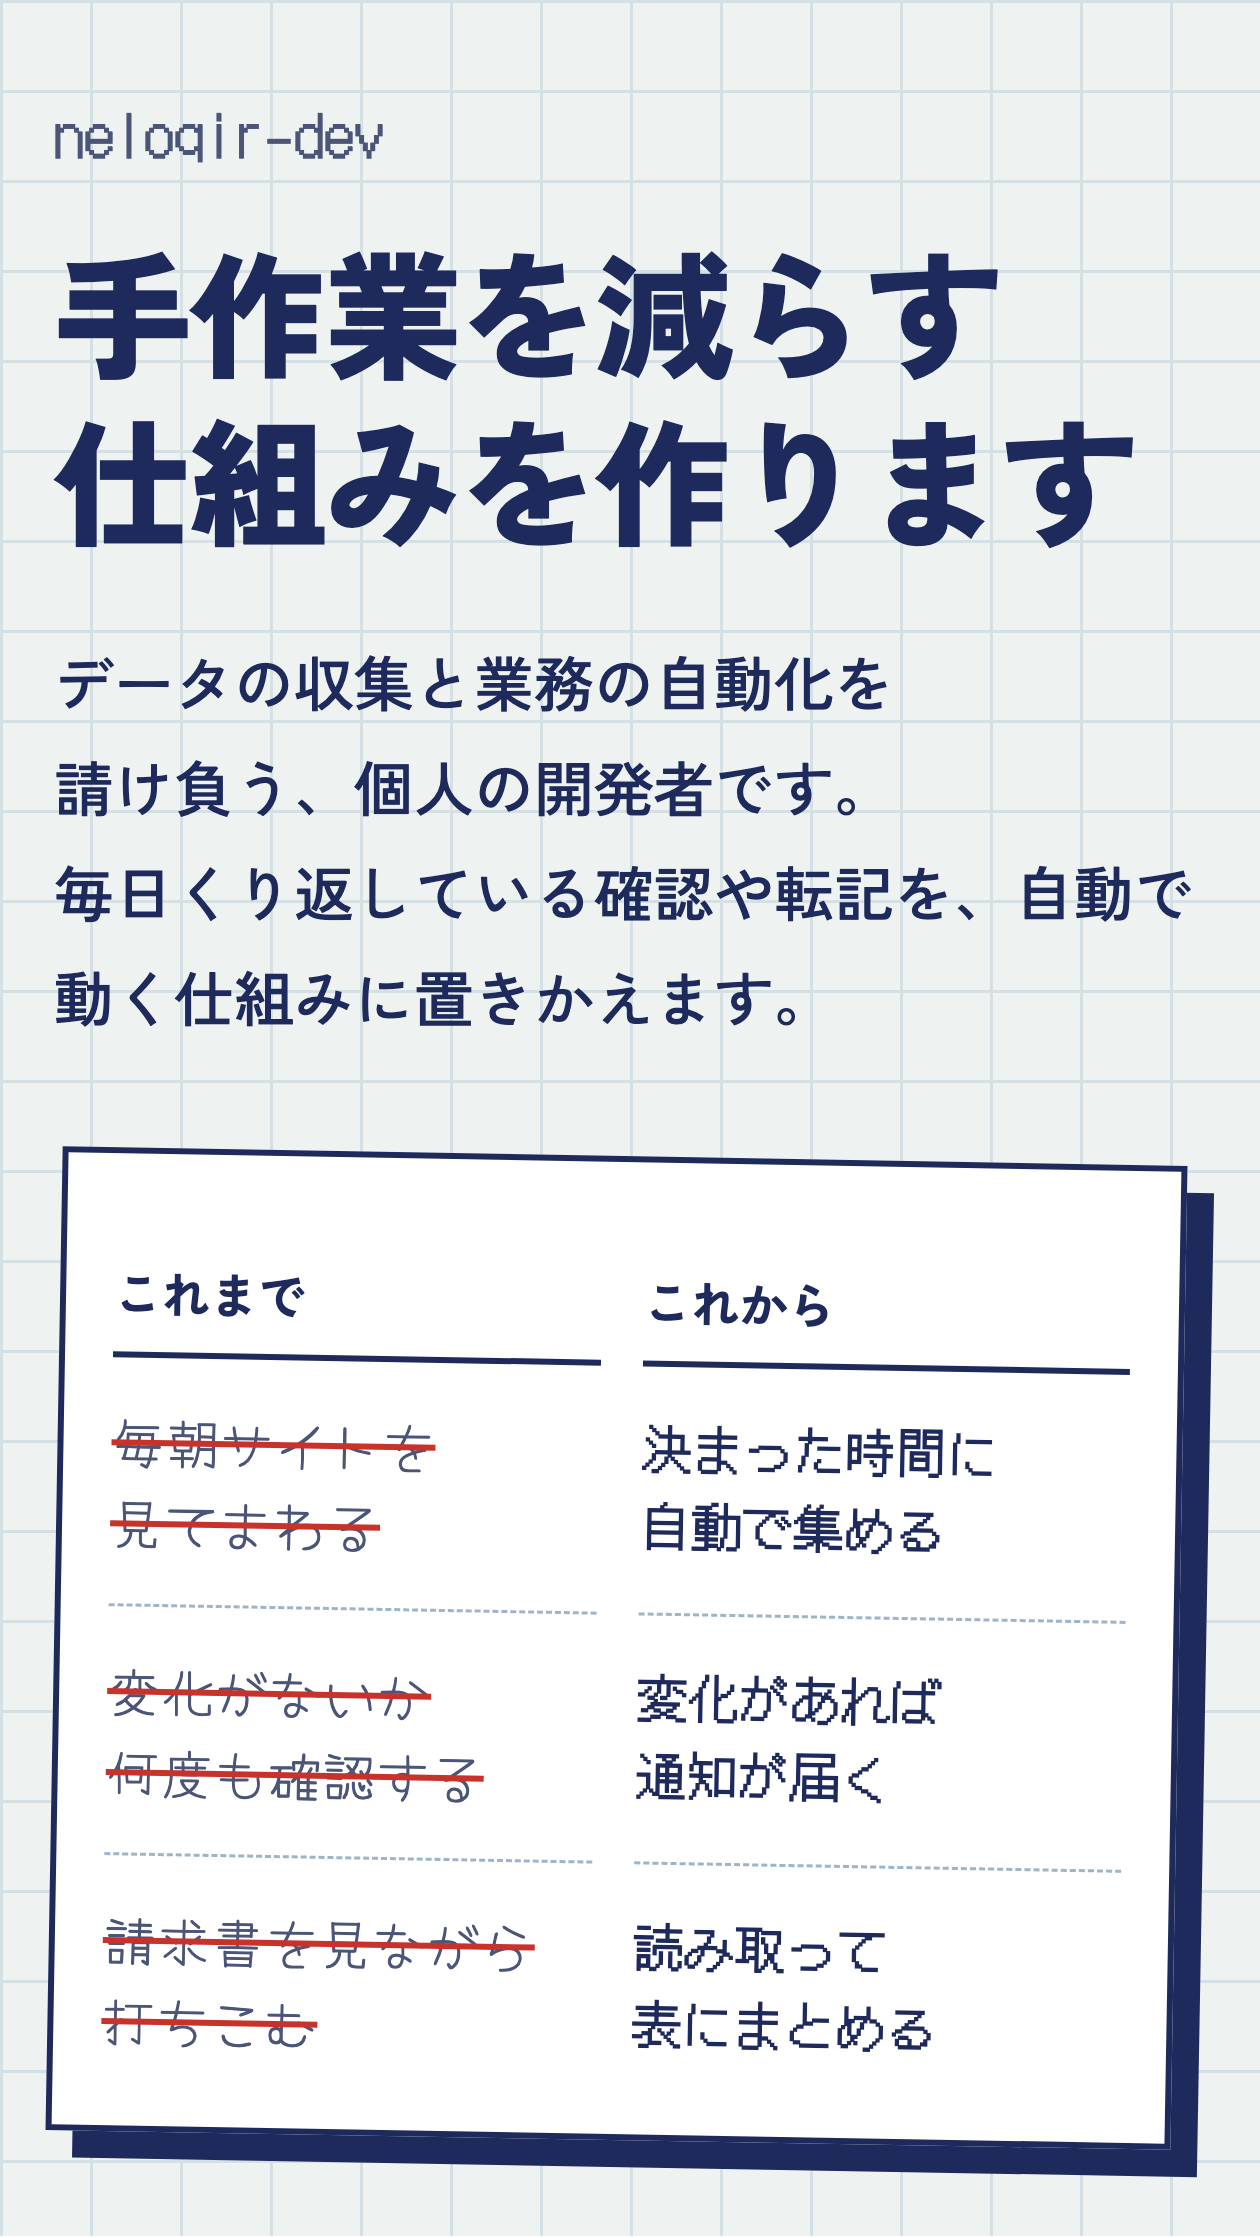
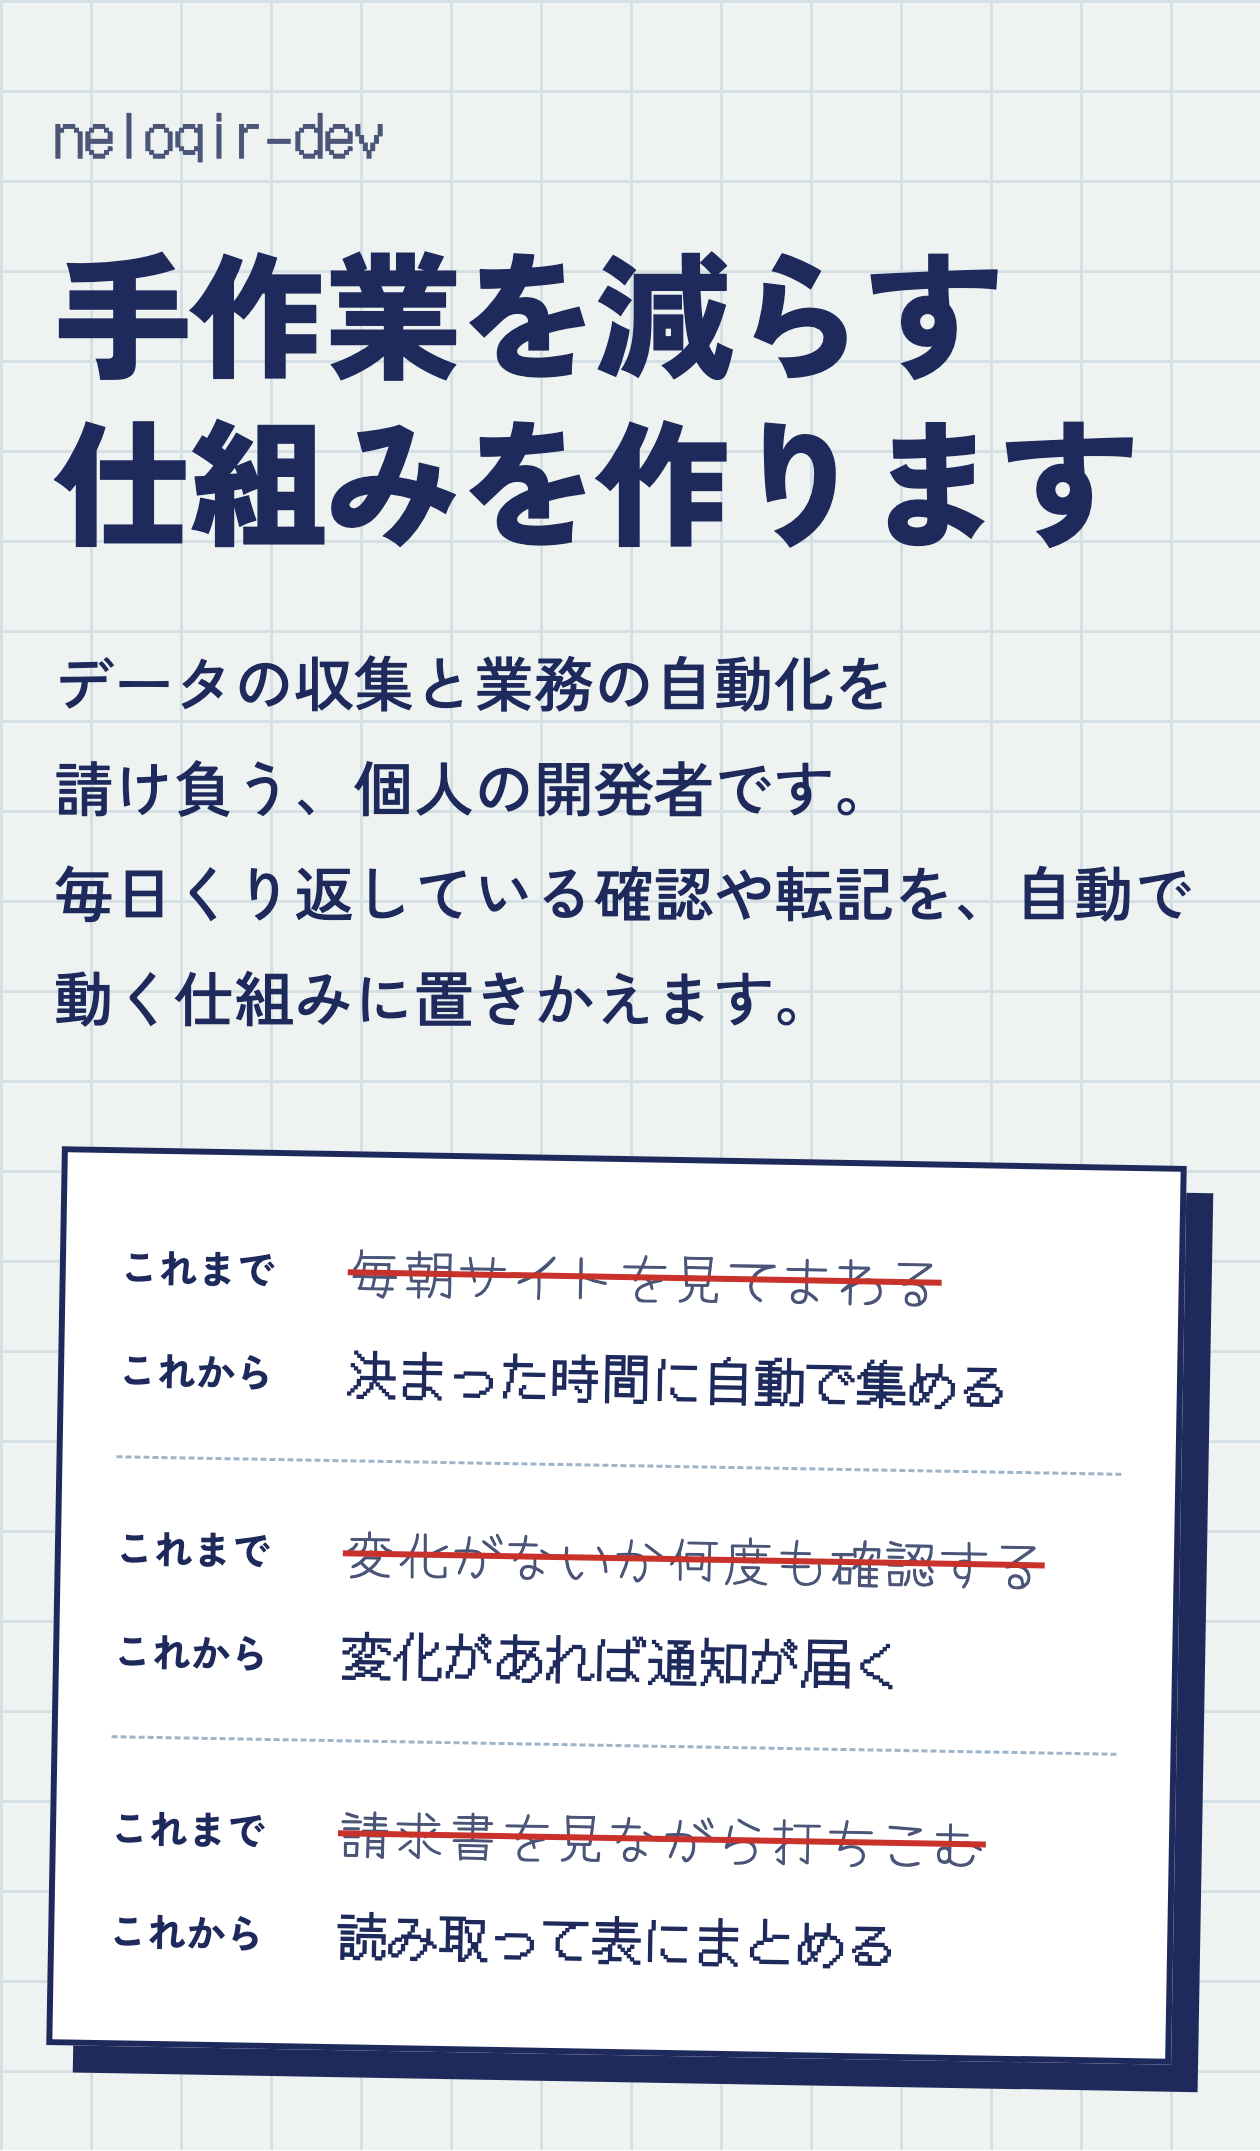
伝票をたて並びにして1行におさめる

diff --git a/assets/readme-images.html b/assets/readme-images.html
@@ -35,6 +35,11 @@ p,h1,h3{margin:0;word-break:auto-phrase;text-wrap:balance}
 .works td{font-family:'DotGothic16',sans-serif;font-size:18px;color:#4A5578;padding:34px 14px 40px}
 .works th+th,.works td+td{border-left:1px solid #9DB4C9}
 .stamp{position:absolute;right:98px;bottom:6px;width:92px;height:92px;box-sizing:border-box;border:4px solid #C8322B;border-radius:50%;display:flex;align-items:center;justify-content:center;color:#C8322B;font-size:23px;font-weight:900;line-height:1;transform:rotate(-12deg)}
+.slip{display:block;padding:8px 18px}
+.slip p{padding:0;border:0;line-height:1.5;white-space:nowrap}
+.pair{display:grid;grid-template-columns:66px 1fr;gap:8px 10px;align-items:center;padding:16px 0;border-bottom:1px dashed #9DB4C9}
+.pair:last-child{border-bottom:0}
+.slip .lab{font-size:13px;font-weight:700}
 </style>
 </head>
 <body>
@@ -43,10 +48,9 @@ p,h1,h3{margin:0;word-break:auto-phrase;text-wrap:balance}
 <h1>手作業を減らす<br>仕組みを作ります</h1>
 <p class="lead">データの収集と業務の自動化を請け負う、個人の開発者です。<br>毎日くり返している確認や転記を、自動で動く仕組みに置きかえます。</p>
 <div class="box shadow slip">
-<p class="th">これまで</p><p class="th">これから</p>
-<p class="old">毎朝サイトを見てまわる</p><p class="new">決まった時間に自動で集める</p>
-<p class="old">変化がないか何度も確認する</p><p class="new">変化があれば通知が届く</p>
-<p class="old last">請求書を見ながら打ちこむ</p><p class="new last">読み取って表にまとめる</p>
+<div class="pair"><p class="lab">これまで</p><p class="old">毎朝サイトを見てまわる</p><p class="lab">これから</p><p class="new">決まった時間に自動で集める</p></div>
+<div class="pair"><p class="lab">これまで</p><p class="old">変化がないか何度も確認する</p><p class="lab">これから</p><p class="new">変化があれば通知が届く</p></div>
+<div class="pair"><p class="lab">これまで</p><p class="old">請求書を見ながら打ちこむ</p><p class="lab">これから</p><p class="new">読み取って表にまとめる</p></div>
 </div>
 </section>
 
